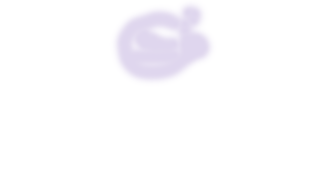
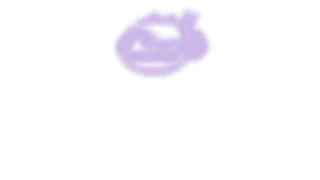
glow inicio bien + prueba dia_noche

diff --git a/Code/src/contact.js b/Code/src/contact.js
@@ -17,28 +17,89 @@ class Contact extends Phaser.Scene {
 
     create(){
 
-        var background = this.add.image(config.width/2,config.height/2,'bg_contact')//fondo
+        //var background = this.add.image(config.width/2,config.height/2,'bg_contact')//fondo
+//
+        //this.add.text(1.1*config.width/3, 3.25*config.height/12, this.gameStrings.ContactDesignRole, { font: "10px PixelFont", fill: "#ffffff", align: "center" }).setOrigin(0.5).setResolution(10);
+        //this.add.text(1.1*config.width/3, 4*config.height/12, 'Álvaro Roger Zapata', { font: "10px PixelFont", fill: "#ffffff", align: "center" }).setOrigin(0.5).setResolution(10);
+        //
+        //this.add.text(1.1*config.width/3, 5*config.height/12, this.gameStrings.ContactProgrammingRole, { font: "10px PixelFont", fill: "#ffffff", align: "center" }).setOrigin(0.5).setResolution(10);
+        //this.add.text(1.1*config.width/3, 5.75*config.height/12, 'Jose Luis Murcia Gamez', { font: "10px PixelFont", fill: "#ffffff", align: "center" }).setOrigin(0.5).setResolution(10);
+        //this.add.text(1.1*config.width/3, 6.5*config.height/12, 'Lucía Ortuño Guisado', { font: "10px PixelFont", fill: "#ffffff", align: "center" }).setOrigin(0.5).setResolution(10);
+        //this.add.text(1.1*config.width/3, 7.25*config.height/12, 'Daniel Brenlla Gómez', { font: "10px PixelFont", fill: "#ffffff", align: "center" }).setOrigin(0.5).setResolution(10);
+//
+        //this.add.text(1.1*config.width/3, 8.25*config.height/12, this.gameStrings.ContactArtRole, { font: "10px PixelFont", fill: "#ffffff", align: "center" }).setOrigin(0.5).setResolution(10);
+        //this.add.text(1.1*config.width/3, 9*config.height/12, 'Patricia Ruiz Bermejo', { font: "10px PixelFont", fill: "#ffffff", align: "center" }).setOrigin(0.5).setResolution(10);
+        //this.add.text(1.1*config.width/3, 9.75*config.height/12, 'Mariam Baradi Del Álamo', { font: "10px PixelFont", fill: "#ffffff", align: "center" }).setOrigin(0.5).setResolution(10);
+//
+        //this.add.text(3*config.width/4, 5.75*config.height/12, this.gameStrings.ContactGameBy, { font: "10px PixelFont", fill: "#ffffff", align: "center" }).setOrigin(0.5).setResolution(10);
+        //var logo = this.add.image(3*config.width/4, 8*config.height/12,'spr_logoTeam_Inicio').setScale(0.15).setOrigin(0.5);
+//
+        ////BACK 
+        //this.backButton = this.add.image(config.width/12, 9*config.height/10,'spr_back1')
+        //this.backButton.setInteractive().on('pointerdown', () => {
+        //        this.scene.start("Inicio", { playerInfo: this.playerSettings });})
+        var backgroundStreet = this.add.image(config.width/2, config.height/2, 'bg_streetNoodles').setTint(0xffffff);
+        var fondoNaranja = this.add.image(config.width/2, config.height/2, 'bg_dawn').setBlendMode(Phaser.BlendModes.MULTIPLY).setAlpha(1);
+        var fondoAzul = this.add.image(config.width/2, config.height/2, 'bg_night').setTint(0xffffff).setAlpha(0).setBlendMode(Phaser.BlendModes.MULTIPLY).setAlpha(0);
+        var fondoVerde = this.add.image(config.width/2, config.height/2, 'bg_sunrise').setTint(0xffffff).setAlpha(0).setBlendMode(Phaser.BlendModes.MULTIPLY).setAlpha(0);
+        var currentScene = this;
+        setTimeout(function(){ 
+            currentScene.tweenOrange = currentScene.tweens.add({
+                targets: fondoNaranja,
+                alpha: 0,
+                ease: "Linear", // 'Linear', 'Cubic', 'Elastic', 'Bounce', 'Back'
+                duration: 5000,
+                repeat: 0,
+                yoyo: false
+            });
+            //this.tweenOrange.onComplete.add(this.tweenBlue, this);
+            currentScene.tweenBl = currentScene.tweens.add({
+                targets: fondoAzul,
+                alpha: 1,
+                ease: "Linear", // 'Linear', 'Cubic', 'Elastic', 'Bounce', 'Back'
+                duration: 5000,
+                repeat: 0,
+                yoyo: false
+            });
+             }, 5000);
 
-        this.add.text(1.1*config.width/3, 3.25*config.height/12, this.gameStrings.ContactDesignRole, { font: "10px PixelFont", fill: "#ffffff", align: "center" }).setOrigin(0.5).setResolution(10);
-        this.add.text(1.1*config.width/3, 4*config.height/12, 'Álvaro Roger Zapata', { font: "10px PixelFont", fill: "#ffffff", align: "center" }).setOrigin(0.5).setResolution(10);
+
+            setTimeout(function(){ 
+               currentScene.tweenOrange = currentScene.tweens.add({
+                   targets: fondoAzul,
+                   alpha: 0,
+                   ease: "Linear", // 'Linear', 'Cubic', 'Elastic', 'Bounce', 'Back'
+                   duration: 5000,
+                   repeat: 0,
+                   yoyo: false
+               });
+               //this.tweenOrange.onComplete.add(this.tweenBlue, this);
+               currentScene.tweenBl = currentScene.tweens.add({
+                   targets: fondoVerde,
+                   alpha: 1,
+                   ease: "Linear", // 'Linear', 'Cubic', 'Elastic', 'Bounce', 'Back'
+                   duration: 5000,
+                   repeat: 0,
+                   yoyo: false
+               });
+                }, 15000);
         
-        this.add.text(1.1*config.width/3, 5*config.height/12, this.gameStrings.ContactProgrammingRole, { font: "10px PixelFont", fill: "#ffffff", align: "center" }).setOrigin(0.5).setResolution(10);
-        this.add.text(1.1*config.width/3, 5.75*config.height/12, 'Jose Luis Murcia Gamez', { font: "10px PixelFont", fill: "#ffffff", align: "center" }).setOrigin(0.5).setResolution(10);
-        this.add.text(1.1*config.width/3, 6.5*config.height/12, 'Lucía Ortuño Guisado', { font: "10px PixelFont", fill: "#ffffff", align: "center" }).setOrigin(0.5).setResolution(10);
-        this.add.text(1.1*config.width/3, 7.25*config.height/12, 'Daniel Brenlla Gómez', { font: "10px PixelFont", fill: "#ffffff", align: "center" }).setOrigin(0.5).setResolution(10);
 
-        this.add.text(1.1*config.width/3, 8.25*config.height/12, this.gameStrings.ContactArtRole, { font: "10px PixelFont", fill: "#ffffff", align: "center" }).setOrigin(0.5).setResolution(10);
-        this.add.text(1.1*config.width/3, 9*config.height/12, 'Patricia Ruiz Bermejo', { font: "10px PixelFont", fill: "#ffffff", align: "center" }).setOrigin(0.5).setResolution(10);
-        this.add.text(1.1*config.width/3, 9.75*config.height/12, 'Mariam Baradi Del Álamo', { font: "10px PixelFont", fill: "#ffffff", align: "center" }).setOrigin(0.5).setResolution(10);
+//
+        //this.tween = this.tweens.add({
+        //    targets: fondoNaranja1,
+        //    alpha: 0,
+        //    ease: "Cubic", // 'Linear', 'Cubic', 'Elastic', 'Bounce', 'Back'
+        //    duration: 5000,
+        //    repeat: 0,
+        //    yoyo: false
+        //});
 
-        this.add.text(3*config.width/4, 5.75*config.height/12, this.gameStrings.ContactGameBy, { font: "10px PixelFont", fill: "#ffffff", align: "center" }).setOrigin(0.5).setResolution(10);
-        var logo = this.add.image(3*config.width/4, 8*config.height/12,'spr_logoTeam_Inicio').setScale(0.15).setOrigin(0.5);
 
-        //BACK 
-        this.backButton = this.add.image(config.width/12, 9*config.height/10,'spr_back1')
-        this.backButton.setInteractive().on('pointerdown', () => {
-                this.scene.start("Inicio", { playerInfo: this.playerSettings });})
+    }
 
+    tweenBlue(){
+        
     }
 
 

diff --git a/Code/src/inicio.js b/Code/src/inicio.js
@@ -26,18 +26,17 @@ class Inicio extends Phaser.Scene {
         var scene = this;
         this.backgroundMenuOff = this.add.sprite(config.width/2,config.height/2,'bg_maintitle_off')
         this.backgroundMenuOn = this.add.sprite(config.width/2,config.height/2,'bg_maintitle_on').setVisible(false)
-        this.backgroundMenuLight = this.add.sprite(config.width/2,config.height/2,'bg_maintitle_light').setBlendMode(Phaser.BlendModes.SOFT_LIGHT).setAlpha(0)
-        //this.add.tween(this.backgroundMenuLight).to( { alpha: 0.6 }, 2000, Phaser.Easing.Linear.None, true, 0, 1000,true);
+        this.backgroundMenuLight = this.add.sprite(config.width/2,config.height/2,'bg_maintitle_light2').setAlpha(0)
 
        
-        this.tweens.add({
-          targets: this.backgroundMenuLight ,
-          alpha: 0.6, // '+=100'
-          ease: "Elastic", // 'Linear', 'Cubic', 'Elastic', 'Bounce', 'Back'
-          duration: 1000,
-          repeat: -1,
-          yoyo: true
-          });
+        this.tween = this.tweens.add({
+            targets: this.backgroundMenuLight,
+            alpha: 1,
+            ease: "Elastic", // 'Linear', 'Cubic', 'Elastic', 'Bounce', 'Back'
+            duration: 1000,
+            repeat: -1,
+            yoyo: true
+        });
 
         var contactButton = this.add.image(config.width/2, 1.6*config.height/2, 'assets_atlas','main_title_button_contact')
         
@@ -50,36 +49,34 @@ class Inicio extends Phaser.Scene {
         this.snd_door = this.sound.add('snd_opening_door');
         
         playButton.setInteractive().on('pointerdown', () => {
+            this.tween.stop()
+            this.backgroundMenuOff.setVisible(false)
             contactButton.disableInteractive()
             playButton.disableInteractive()
             setTimeout(function(){
                 currentScene.backgroundMenuOn.setVisible(true)
                 //currentScene.backgroundMenuLight.setVisible(true)
-                currentScene.backgroundMenuOff.setVisible(false)
+                currentScene.backgroundMenuLight.setVisible(false)
                 setTimeout(function(){
                     currentScene.backgroundMenuOn.setVisible(false)
                     //currentScene.backgroundMenuLight.setVisible(false)
-                    currentScene.backgroundMenuOff.setVisible(true)
+                    currentScene.backgroundMenuLight.setVisible(true)
                     setTimeout(function(){
                         currentScene.backgroundMenuOn.setVisible(true)
                         //currentScene.backgroundMenuLight.setVisible(true)
-                        currentScene.backgroundMenuOff.setVisible(true)
+                        currentScene.backgroundMenuLight.setVisible(true)
                         setTimeout(function(){
                             currentScene.backgroundMenuOn.setVisible(false)
                             //currentScene.backgroundMenuLight.setVisible(false)
-                            currentScene.backgroundMenuOff.setVisible(true)
+                            currentScene.backgroundMenuLight.setVisible(true)
                             setTimeout(function(){
                                 currentScene.backgroundMenuOn.setVisible(true)
                                 //currentScene.backgroundMenuLight.setVisible(true)
-                                currentScene.backgroundMenuOff.setVisible(false)    
+                                currentScene.backgroundMenuLight.setVisible(false)    
                                 currentScene.snd_door.play()                      
                                 setTimeout(function(){                                    
                                     currentScene.music.stop()
-                                    currentScene.cameras.main.fadeOut(1000,0xffffff, 0xffffff,0xffffff,);
-                                    //currentScene.scene.start("Menu", {playerInfo: currentScene.playerSettings });
-                                    //setTimeout(function(){
-                                    //    currentScene.scene.start("Menu", {playerInfo: currentScene.playerSettings });
-                                    //}, 2000);
+                                    currentScene.cameras.main.fadeOut(1000,0xffffff, 0xffffff,0xffffff,)
                                 }, 1500);
                             }, 100);
                         }, 100);

diff --git a/Code/src/menu.js b/Code/src/menu.js
@@ -29,11 +29,11 @@ class Menu extends Phaser.Scene {
 
     create(){
         var scene = this;
-        //var background = this.add.image(config.width/2,config.height/2,'bg_interior')//fondo
-        var background_window = this.add.image(config.width*0.5, config.height*0.5, 'bg_interior_window');
-        var background_interior_back= this.add.image(config.width*0.5, config.height*0.5, 'bg_interior_back');
-        var background_interior_barra = this.add.image(config.width*0.5, config.height*0.715, 'bg_interior_barra');
-        var background_interior_cristal = this.add.image(config.width*0.62, config.height*0.32, 'bg_interior_cristal');
+        var background = this.add.image(config.width/2,config.height/2,'bg_interior_empty')//fondo
+        //var background_window = this.add.image(config.width*0.5, config.height*0.5, 'bg_interior_window');
+        //var background_interior_back= this.add.image(config.width*0.5, config.height*0.5, 'bg_interior_back');
+        //var background_interior_barra = this.add.image(config.width*0.5, config.height*0.715, 'bg_interior_barra');
+        //var background_interior_cristal = this.add.image(config.width*0.62, config.height*0.32, 'bg_interior_cristal');
         //var widthRatio = config.width / background.displayWidth
         //background.displayWidth = config.width;
         //background.displayHeight = background.displayHeight * widthRatio
@@ -144,7 +144,7 @@ class Menu extends Phaser.Scene {
         this.blackScreen.setVisible(false)
         this.extraBanner = this.add.sprite(config.width/2, config.height/2,'assets_atlas','spr_bck_improvementMenu')
         this.extraBanner.setVisible(false)
-        this.crossButton = this.add.sprite(4*config.width/5, 1*config.height/5,'spr_closeWindow')
+        this.crossButton = this.add.sprite(config.width/2 - this.extraBanner.width/2 + 10, config.height/2 + this.extraBanner.height/2 - 10,'assets_atlas','spr_back')
         this.crossButton.setVisible(false)
         this.crossButton.setInteractive().on('pointerdown', () => {this.enableAllButtons();})
 
@@ -797,6 +797,7 @@ class Menu extends Phaser.Scene {
         //this.taskButton.disableInteractive()
         this.backButton.disableInteractive()
         this.playButton.disableInteractive()
+        this.tutorialButton.disableInteractive()
         this.extraBanner.setVisible(true)//Pintar panel -> Mismo para todas las acciones
         this.crossButton.setVisible(true)//Pintar boton de cerrar panel
         //this.expButton.disableInteractive()
@@ -813,6 +814,7 @@ class Menu extends Phaser.Scene {
         //this.taskButton.setInteractive()
         this.backButton.setInteractive()
         this.playButton.setInteractive()
+        this.tutorialButton.setInteractive()
         this.blackScreen.setVisible(false)//Desoscurecer la pantalla
         this.extraBanner.setVisible(false)
         this.crossButton.setVisible(false)

diff --git a/Code/src/shop.js b/Code/src/shop.js
@@ -22,11 +22,11 @@ class Shop extends Phaser.Scene {
     create(){
         this.CoinsSelected = true;
         var scene = this;
-        //var background = this.add.image(config.width/2,config.height/2,'bg_interior')
-        var background_window = this.add.image(config.width*0.5, config.height*0.5, 'bg_interior_window');
-        var background_interior_back= this.add.image(config.width*0.5, config.height*0.5, 'bg_interior_back');
-        var background_interior_barra = this.add.image(config.width*0.5, config.height*0.715, 'bg_interior_barra');
-        var background_interior_cristal = this.add.image(config.width*0.62, config.height*0.32, 'bg_interior_cristal');
+        var background = this.add.image(config.width/2,config.height/2,'bg_interior_empty')
+        //var background_window = this.add.image(config.width*0.5, config.height*0.5, 'bg_interior_window');
+        //var background_interior_back= this.add.image(config.width*0.5, config.height*0.5, 'bg_interior_back');
+        //var background_interior_barra = this.add.image(config.width*0.5, config.height*0.715, 'bg_interior_barra');
+        //var background_interior_cristal = this.add.image(config.width*0.62, config.height*0.32, 'bg_interior_cristal');
 
 
         this.shopBanner = this.add.sprite(config.width/2, config.height/2,'assets_atlas', 'spr_bck_shopMenu')

diff --git a/Code/src/loading.js b/Code/src/loading.js
@@ -219,7 +219,14 @@ class Loading extends Phaser.Scene {
         this.load.image('bg_maintitle_on','assets/bg_maintitle_on.png');
         this.load.image('bg_maintitle_off','assets/bg_maintitle_off.png');
         this.load.image('bg_maintitle_light','assets/bg_maintitle_light.png');
+        this.load.image('bg_maintitle_light2','assets/bg_maintitle_light2.png');
+        this.load.image('bg_interior_empty','assets/bg_interior_empty.png');
         this.load.image('bg_contact','assets/bg_contact.png');
+        
+        this.load.image('bg_dawn','assets/backgrounds/bg_dawn.png');
+        this.load.image('bg_night','assets/backgrounds/bg_night.png');
+        this.load.image('bg_sunrise','assets/backgrounds/bg_sunrise.png');
+
         this.load.image('spr_clue','assets/UI/spr_clue.png');
         this.load.image('spr_back1','assets/spr_back.png');
         this.load.image('spr_ui_settings1','assets/spr_ui_settings.png');
